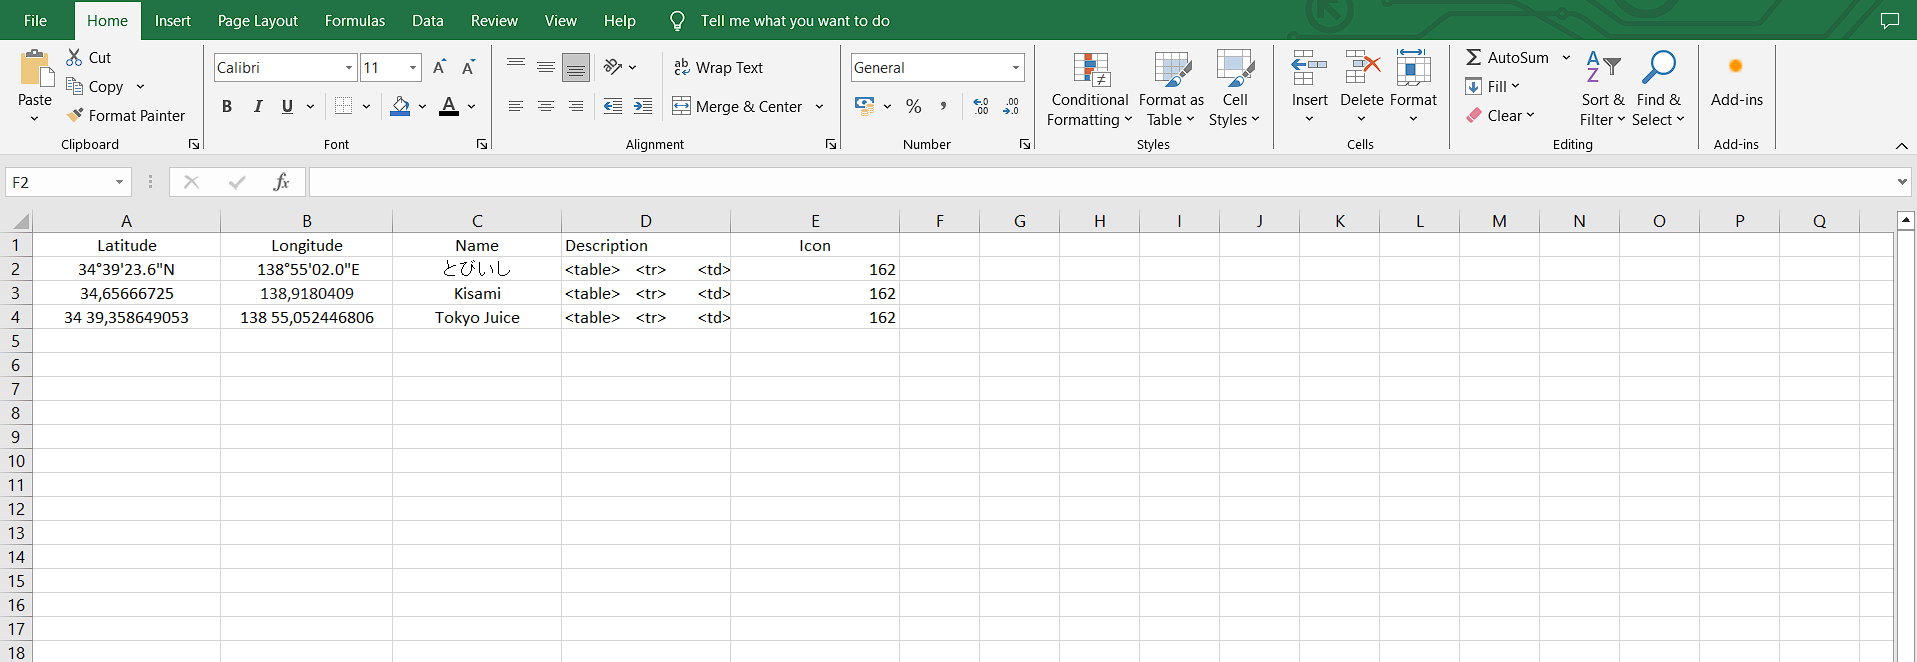
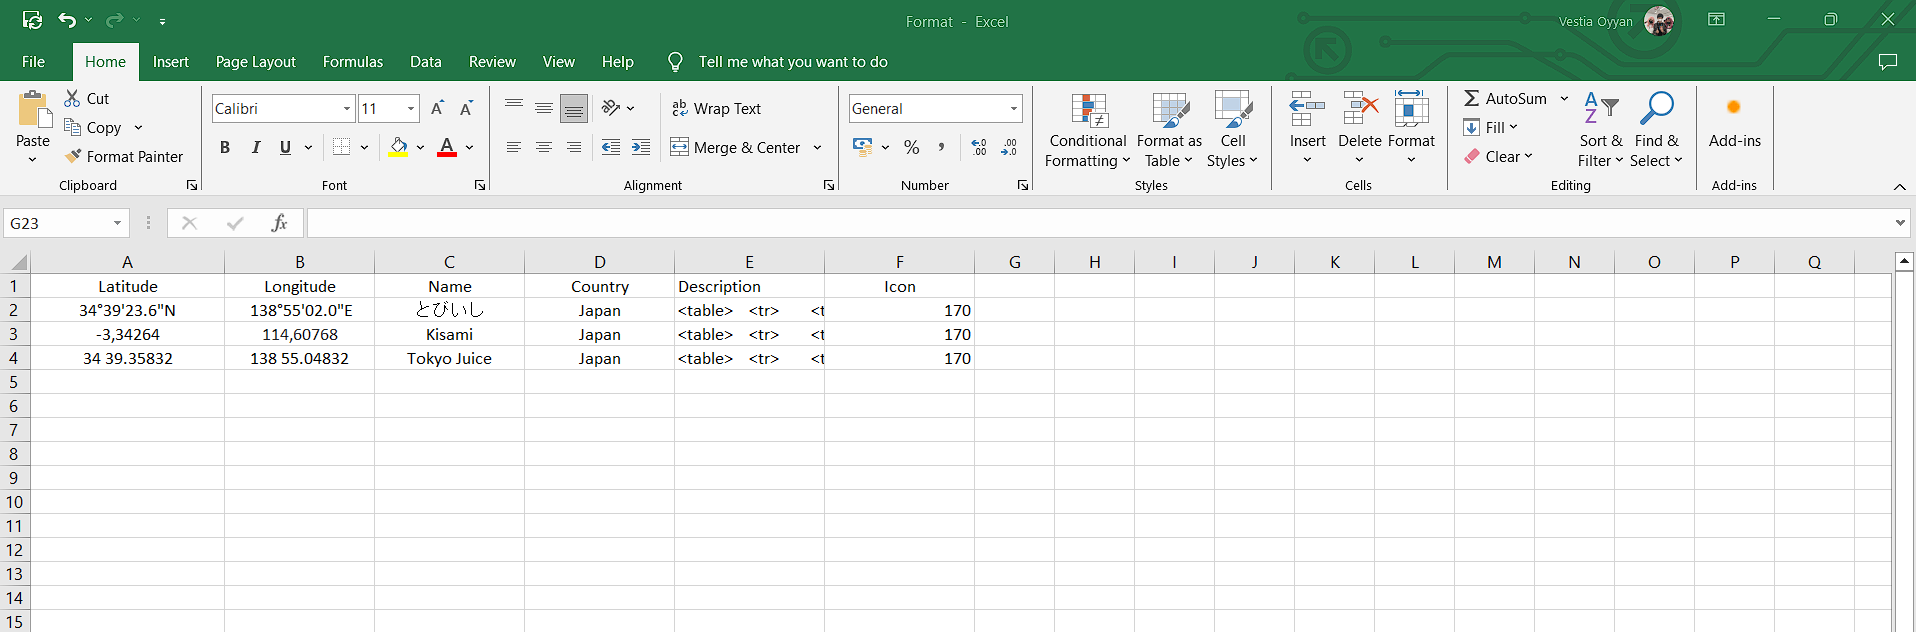
working on format

diff --git a/public/index.html b/public/index.html
@@ -91,6 +91,17 @@
     </div>
     <!-- Format end -->
 
+    <!-- format 2 start -->
+    <div class="bg-[#EFF3EA] min-h-screen flex flex-col justify-center items-center lg:px-24">
+        <div class="w-full max-w-md text-center">
+            <p>Use Formula in Description</p>
+            <p>Example : </p>
+        </div>
+        <img src="src/images/format2.png" alt="Formula format" class="p-2">
+    </div>
+
+     <!-- format 2 end -->
+
     <!-- icon start -->
     <div id="icon" class="bg-[#EFF3EA] min-h-screen flex flex-col justify-center items-center px-4">
         <div class="w-full max-w-md text-center">
